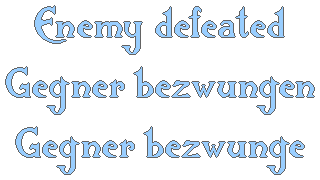
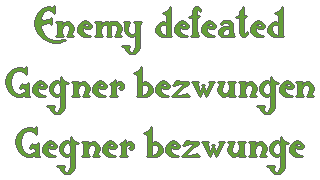
Add boss hp bar (visible at all times) Add 'Enemy defeated' text to screen

diff --git a/src/ScreenOverlays/ScreenOverlay.cpp b/src/ScreenOverlays/ScreenOverlay.cpp
@@ -237,6 +237,31 @@ ScreenOverlay* ScreenOverlay::createGamePausedScreenOverlay() {
 	return gamePausedScreenOverlay;
 }
 
+ScreenOverlay* ScreenOverlay::createEnemyDefeatedScreenOverlay() {
+	TextureScreenOverlay* enemyDefeatedScreenOverlay = new TextureScreenOverlay(sf::seconds(1.f), sf::seconds(2.f));
+	enemyDefeatedScreenOverlay->setPermanent(true);
+
+	enemyDefeatedScreenOverlay->setBackgroundTexture(g_resourceManager->getTexture(ResourceID::Texture_screen_overlay));
+
+	const sf::Texture* text = g_resourceManager->getTexture(ResourceID::Texture_text_defeated);
+	enemyDefeatedScreenOverlay->setSpriteTexture(text);
+	enemyDefeatedScreenOverlay->setSpriteScale(sf::Vector2f(3.f, 3.f));
+	enemyDefeatedScreenOverlay->setSpritePosition(sf::Vector2f(0.5f * (WINDOW_WIDTH - 3.f * text->getSize().x), 200.f - 0.5f * 3.f * 60.f));
+
+	Language language = g_resourceManager->getConfiguration().language;
+	if (language == Language::Lang_EN) {
+		enemyDefeatedScreenOverlay->setSpriteTextureRect(sf::IntRect(0, 0, static_cast<int>(text->getSize().x), 60));
+	}
+	else if (language == Language::Lang_DE) {
+		enemyDefeatedScreenOverlay->setSpriteTextureRect(sf::IntRect(0, 60, static_cast<int>(text->getSize().x), 60));
+	}
+	else if (language == Language::Lang_CH) {
+		enemyDefeatedScreenOverlay->setSpriteTextureRect(sf::IntRect(0, 120, static_cast<int>(text->getSize().x), 60));
+	}
+
+	return enemyDefeatedScreenOverlay;
+}
+
 ScreenOverlay* ScreenOverlay::createPermanentItemScreenOverlay(const Item& item) {
 	TextureScreenOverlay* itemScreenOverlay = new TextureScreenOverlay(sf::seconds(2.f), sf::seconds(1.f));
 

diff --git a/src/Level/LevelInterface.cpp b/src/Level/LevelInterface.cpp
@@ -7,12 +7,20 @@ LevelInterface::LevelInterface(WorldScreen* screen, LevelMainCharacter* characte
 m_character(character) {
 	m_inventory = new Inventory(this);
 	m_characterInfo = new CharacterInfo(m_core, character->getAttributes());
-	m_mainCharHealthBar = new HealthBar(character->getAttributes(), HealthBarStyle::MainCharacter);
-	m_enemyHealthBar = new HealthBar(nullptr, HealthBarStyle::Enemy);
 	m_quickSlotBar = new QuickSlotBar(this);
 	m_spellbook = new Spellbook(m_core, false);
 	m_questLog = new QuestLog(m_core);
 	m_buffBar = new BuffBar(this);
+	m_mainCharHealthBar = new HealthBar(character->getAttributes(), HealthBarStyle::MainCharacter);
+
+	const Level* level = dynamic_cast<const Level*>(screen->getWorld());
+	if (level->getWorldData()->bossLevelData.isBossLevel) {
+		// Assume first enemy in level is boss
+		m_enemyHealthBar = new HealthBar(nullptr, HealthBarStyle::Boss);
+	}
+	else {
+		m_enemyHealthBar = new HealthBar(nullptr, HealthBarStyle::Enemy);
+	}
 }
 
 LevelInterface::~LevelInterface() {

diff --git a/src/GUI/DialogueWindow.cpp b/src/GUI/DialogueWindow.cpp
@@ -10,6 +10,8 @@ using namespace std;
 const sf::IntRect CENDRIC_TEX_POS = sf::IntRect(0, 0, 250, 250);
 const std::string CENDRIC_NAME = "Cendric";
 
+const int MAX_CHARS_PER_OPTION = 72;
+
 const float DialogueWindow::LEFT_OFFSET = 270.f;	// offset to have space for sprite
 const float DialogueWindow::RIGHT_OFFSET = 100.f;
 
@@ -350,6 +352,9 @@ void DialogueWindow::render(sf::RenderTarget& renderTarget) {
 
 DialogueOption::DialogueOption(const std::string& text, const std::string& dialogueID, bool isEnd) {
 	std::string textString = g_textProvider->getText(text, dialogueID);
+	if (textString.size() > MAX_CHARS_PER_OPTION) {
+		g_logger->logWarning("DialogueOption::DialogueOption", "You should keep option strings below 72 characters.");
+	}
 	if (isEnd) {
 		textString.append(textString.empty() ? g_textProvider->getText("DialogueEnd") : " " + g_textProvider->getText("DialogueEnd"));
 	}

diff --git a/src/ResourceManager.cpp b/src/ResourceManager.cpp
@@ -149,6 +149,7 @@ void ResourceManager::init() {
 		{ ResourceID::Texture_GUI_speechbubble_pointer, "res/assets/gui/speechbubble_pointer.png" },
 		{ ResourceID::Texture_GUI_healthbar_mainChar_border, "res/assets/gui/healthbar_mainChar_border.png" },
 		{ ResourceID::Texture_GUI_healthbar_enemy_border, "res/assets/gui/healthbar_enemy_border.png" },
+		{ ResourceID::Texture_GUI_healthbar_boss_border, "res/assets/gui/healthbar_boss_border.png" },
 		{ ResourceID::Texture_GUI_healthbar_content, "res/assets/gui/healthbar_content.png" },
 		{ ResourceID::Texture_GUI_healthbar_content_hit, "res/assets/gui/healthbar_content_hit.png" },
 		{ ResourceID::Texture_GUI_healthbar_content_highlight, "res/assets/gui/healthbar_content_highlight.png" },

diff --git a/src/GUI/HealthBar.cpp b/src/GUI/HealthBar.cpp
@@ -24,7 +24,14 @@ HealthBar::HealthBar(const AttributeData* attributes, HealthBarStyle style) {
 		m_borderTexture = g_resourceManager->getTexture(ResourceID::Texture_GUI_healthbar_enemy_border);
 	}
 	else if (style == HealthBarStyle::Boss) {
+		m_barWidth = 300.f;
+		m_barLeft = WINDOW_WIDTH - m_barWidth - 2.f * 18.f;
+		m_barTop = 18.f;
 
+		m_borderOffsetX = 12.f;
+		m_borderOffsetY = 10.f;
+
+		m_borderTexture = g_resourceManager->getTexture(ResourceID::Texture_GUI_healthbar_boss_border);
 	}
 
 	m_barTexture = g_resourceManager->getTexture(ResourceID::Texture_GUI_healthbar_content);

diff --git a/src/Screens/LevelScreen.cpp b/src/Screens/LevelScreen.cpp
@@ -80,8 +80,7 @@ void LevelScreen::notifyBackFromMenu() {
 }
 
 void LevelScreen::notifyBossKilled() {
-	// TODO: change to boss defeated overlay
-	addScreenOverlay(ScreenOverlay::createGameOverScreenOverlay());
+	addScreenOverlay(ScreenOverlay::createEnemyDefeatedScreenOverlay());
 	m_interface->hideAll();
 	m_isBossDefeated = true;
 }

diff --git a/include/ScreenOverlays/ScreenOverlay.h b/include/ScreenOverlays/ScreenOverlay.h
@@ -42,6 +42,7 @@ public:
 	static ScreenOverlay* createModifierLearnedScreenOverlay(const SpellModifier& modifier);
 	static ScreenOverlay* createGameOverScreenOverlay();
 	static ScreenOverlay* createGamePausedScreenOverlay();
+	static ScreenOverlay* createEnemyDefeatedScreenOverlay();
 
 protected: 
 	float m_scale;

diff --git a/include/Enums/ResourceID.h b/include/Enums/ResourceID.h
@@ -120,6 +120,7 @@ enum class ResourceID {
 	Texture_GUI_speechbubble_pointer,
 	Texture_GUI_healthbar_mainChar_border,
 	Texture_GUI_healthbar_enemy_border,
+	Texture_GUI_healthbar_boss_border,
 	Texture_GUI_healthbar_content,
 	Texture_GUI_healthbar_content_hit,
 	Texture_GUI_healthbar_content_highlight,

diff --git a/src/Level/Enemies/ZeffBoss.cpp b/src/Level/Enemies/ZeffBoss.cpp
@@ -22,6 +22,9 @@ ZeffBoss::ZeffBoss(const Level* level, Screen* screen) :
 	LevelMovableGameObject(level),
 	Enemy(level, screen) {
 	load(EnemyID::Boss_Zeff);
+
+	// Make boss hp bar appear from the start
+	m_mainChar->setLastHitEnemy(this);
 }
 
 void ZeffBoss::loadAttributes() {
